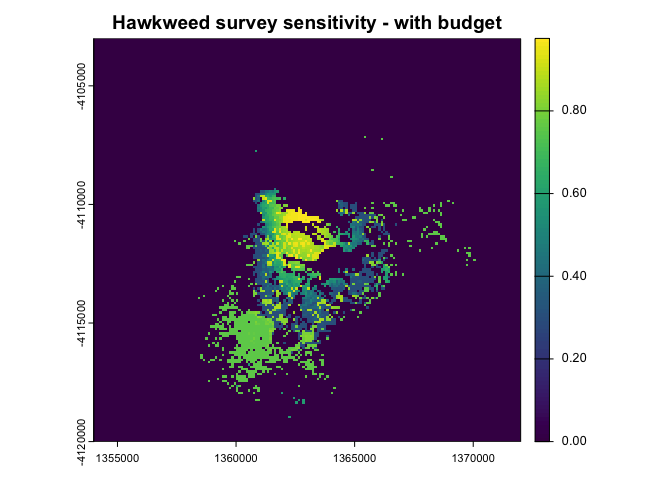
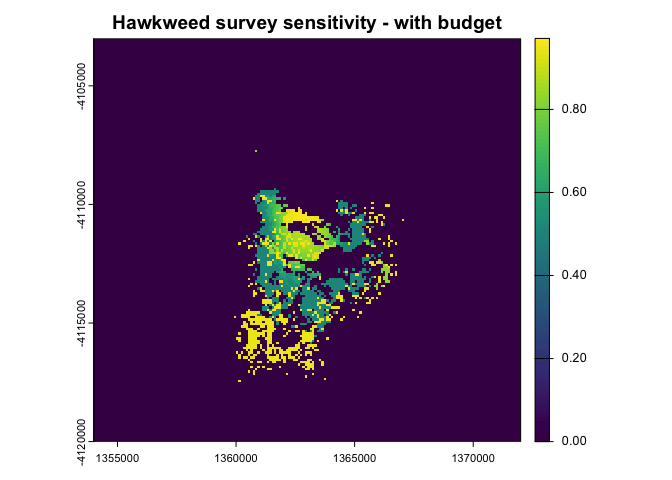
Update readme (in progress 12.2)

diff --git a/README.md b/README.md
@@ -759,10 +759,12 @@ probabilities and efficacy (*lambda*) values.
 
 #### Establishment probability layer
 
-The establishment or occurrence probability layer utilised in Hauser &
-McCarthy (2009) was the “dispersal-constrained habitat suitability”
-described in Williams et al. (2008). In our population spread simulation
-example described in the
+The establishment or occurrence probability layer utilised in the Hauser
+& McCarthy (2009) surveillance design was the “dispersal-constrained
+habitat suitability” model described in Williams et al. (2008) for
+predicting the relative likelihood of arrival and establishment of
+Orange Hawkweed across the Boyong High Plains area. In our population
+spread simulation example described in the
 [bsspread](https://github.com/cebra-analytics/bsspread) package, we
 approximately reproduced the spread distribution of the Williams et al.
 (2008) model. Here we utilise the mean occupancy output (at time step 2)
@@ -771,7 +773,10 @@ from our example spread model simulations, which may be downloaded from
 copied into a *data* directory.
 
 The Williams et al. (2008) “dispersal-constrained habitat suitability”
-model contains values of no more than 0.1. In our example spread model,
+model contains values of no more than 0.1. In demonstrating their
+surveillance design method via cost-based optimisation, Hauser &
+McCarthy (2009) utilised the Williams et al. (2008) model as actual (not
+relative) probabilities of threat presence. In our example spread model,
 however, we initialised every simulation with an established threat
 presence, resulting in a spread distribution containing mean occupancies
 greater than 0.1. We thus scale our mean occupancy output to make it
@@ -875,8 +880,8 @@ read.csv("summary.csv")
 
 We will now re-run our surveillance design with a budget constraint of
 1125 hours (as per Hauser & McCarthy, 2009). However, this time we will
-constrain our allocation to a minimum of 15 minutes (0.25 hours) to
-avoid impractically low survey allocations.
+constrain our allocation to a minimum of 30 minutes (0.5 hours) to avoid
+impractically low survey allocations.
 
 ``` r
 output <- file.remove(c("allocation.tif", "sensitivity.tif", "summary.csv"))
@@ -890,7 +895,7 @@ surv_design_with_budget <- bsdesign::SpatialSurvDesign(
   mgmt_cost = list(undetected = 400*25,
                    detected = 40*25), # hours
   budget = 1125,
-  min_alloc = 0.25)
+  min_alloc = 0.5)
 output <- surv_design_with_budget$save_design()
 terra::plot(terra::rast("allocation.tif"),
             main = "Hawkweed survey allocation - with budget",
@@ -918,14 +923,30 @@ budget-constrained design:
 # Surveillance design summary (with budget)
 read.csv("summary.csv")
 #>   total_allocation mgmt_cost total_cost system_sens
-#> 1             1125  265744.9   266869.9           1
+#> 1             1125  274837.6   275962.6           1
 ```
 
 Note that our surveillance design for Orange Hawkweed produces a
 system-wide sensitivity, or probability of detection when present
-somewhere in the region, near to 1 due to the extensiveness of our
-design, which aimed to contain or eradicate the Hawkweed threat,
-assuming an almost certain probability of occurrence within the region.
+somewhere within the region, near to 1. This is due to the extensiveness
+of our design and the actual (not relative) occurrence probabilities
+used in our model, which infer that the Hawkweed is almost certain to be
+present somewhere within the region.
+
+It was necessary to provide actual (not relative) occurrence
+probabilities, so as to perform cost-based optimisation for our
+surveillance design. We scaled our spread model output to be consistent
+with the relative probability values of the Williams et al. (2008)
+“dispersal-constrained habitat suitability” model, which was used in the
+Hauser & McCarthy (2009) cost-based design for demonstrative purposes.
+Given that actual occurrence probabilities are often unknown,
+surveillance designs may instead utilise relative occurrence
+probabilities with optimisation for maximising non-monetary benefits or
+maximising the number of detections. The estimated system-wide
+sensitivity for surveillance designs utilising relative occurrence
+probabilities will generally underestimate the actual sensitivity, but
+becomes a more accurate estimate when actual occurrence probabilities
+are likely to be very small.
 
 ## Area freedom example
 